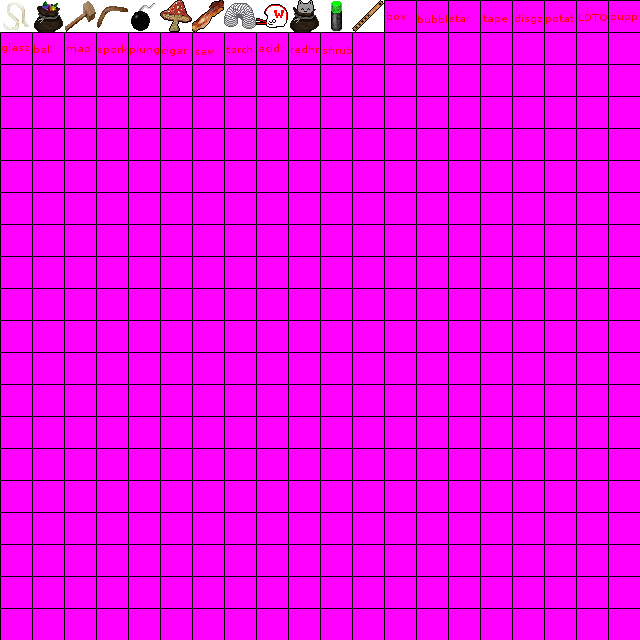
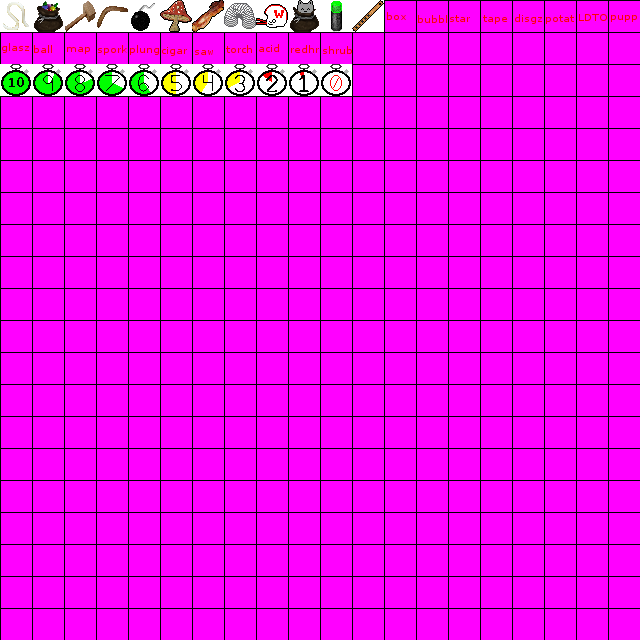
Added stopwatch

Changed region(s): [[0.0, 0.0938, 0.5625, 0.1562]]

diff --git a/skeleton/src/com/gamedev/ld27/gameobjects/Stopwatch.java b/skeleton/src/com/gamedev/ld27/gameobjects/Stopwatch.java
@@ -1,0 +1,41 @@
+package com.gamedev.ld27.gameobjects;
+
+import com.badlogic.gdx.graphics.g2d.Animation;
+import com.badlogic.gdx.graphics.g2d.SpriteBatch;
+import com.badlogic.gdx.graphics.g2d.TextureRegion;
+import com.badlogic.gdx.math.Rectangle;
+import com.badlogic.gdx.math.Vector2;
+import com.gamedev.ld27.Assets;
+import com.gamedev.ld27.Game;
+
+public class Stopwatch extends GameObject {
+	
+	private float _stateTime;
+	private Animation _anim;
+	private Vector2 _screenPos;
+	
+	public Stopwatch(Rectangle bounds) {
+		super(bounds);
+		_stateTime = 0.f;
+		_anim = new Animation(1.f, Assets.stopwatchFrames);
+		_screenPos = new Vector2();
+	}
+	
+	@Override
+	public void update(float delta) {
+		if (_stateTime < 11.f) {
+			_stateTime += delta;
+		} else {
+			_stateTime = 0.f;
+			Alive = false;
+		}
+	}
+	
+	@Override
+	public void render(SpriteBatch batch) {
+		TextureRegion tex = _anim.getKeyFrame(_stateTime);
+		_screenPos = Game.gameWorld.worldPosToScreenMapPos(new Vector2(_bounds.x, _bounds.y));
+		batch.draw(tex, _screenPos.x, _screenPos.y, _bounds.width, _bounds.height);
+	}
+
+}

diff --git a/skeleton/src/com/gamedev/ld27/Assets.java b/skeleton/src/com/gamedev/ld27/Assets.java
@@ -26,6 +26,9 @@ public class Assets {
 	public static TextureRegion[][] digits;
 	public static TextureRegion[][] symbols;
 	
+	// 10 Secondzzzz!!!! ----------------------
+	public static TextureRegion[] stopwatchFrames;
+	
 	// Key items ------------------------------
 	public static TextureRegion wetNoodle;
 	public static TextureRegion bagOfJewels;
@@ -137,6 +140,12 @@ public class Assets {
 		// obstacles
 		troll 		   = itemRow[3][0];
 		rock 	       = itemRow[3][1];
+		
+		// stopwatch
+		stopwatchFrames = new TextureRegion[11];
+		for (int i = 0; i < 11; ++i) {
+			stopwatchFrames[i] = itemRow[2][i];
+		}
 		
 		letters = splitAndGet(spritesheet, 8, 8, 0, 30, 26, 1);
 		digits  = splitAndGet(spritesheet, 8, 8, 0, 31, 10, 1);

diff --git a/skeleton/src/com/gamedev/ld27/screens/PlayScreen.java b/skeleton/src/com/gamedev/ld27/screens/PlayScreen.java
@@ -141,9 +141,10 @@ public class PlayScreen extends GameScreen {
 			Game.itemsBar.useItem();			
 		}
 				
-//		if (Gdx.input.justTouched()) {
-//			game.setScreen(game.screens.get("Title"));
-//		}
+		// TEMPORARY, Stopwatch testing
+		if (Gdx.input.justTouched()) {
+			_gameObjects.add(1, new Stopwatch(new Rectangle(Game.player.pos.x, Game.player.pos.y, 32, 32)));
+		}
 
 		// TODO : update all the things...
 		

diff --git a/skeleton/src/com/gamedev/ld27/gameobjects/WorldMap.java b/skeleton/src/com/gamedev/ld27/gameobjects/WorldMap.java
@@ -168,7 +168,7 @@ public class WorldMap extends GameObject {
 	public Vector2 mapTileFromPosition(Vector2 pos){
 		return new Vector2((int)(pos.x/32), (int)(pos.y/32));
 	}
-	
+
 	public boolean PickUpItem(BaseItem item)
 	{
 		Vector2 playerMapTile = mapTileFromPosition(Game.player.pos);
